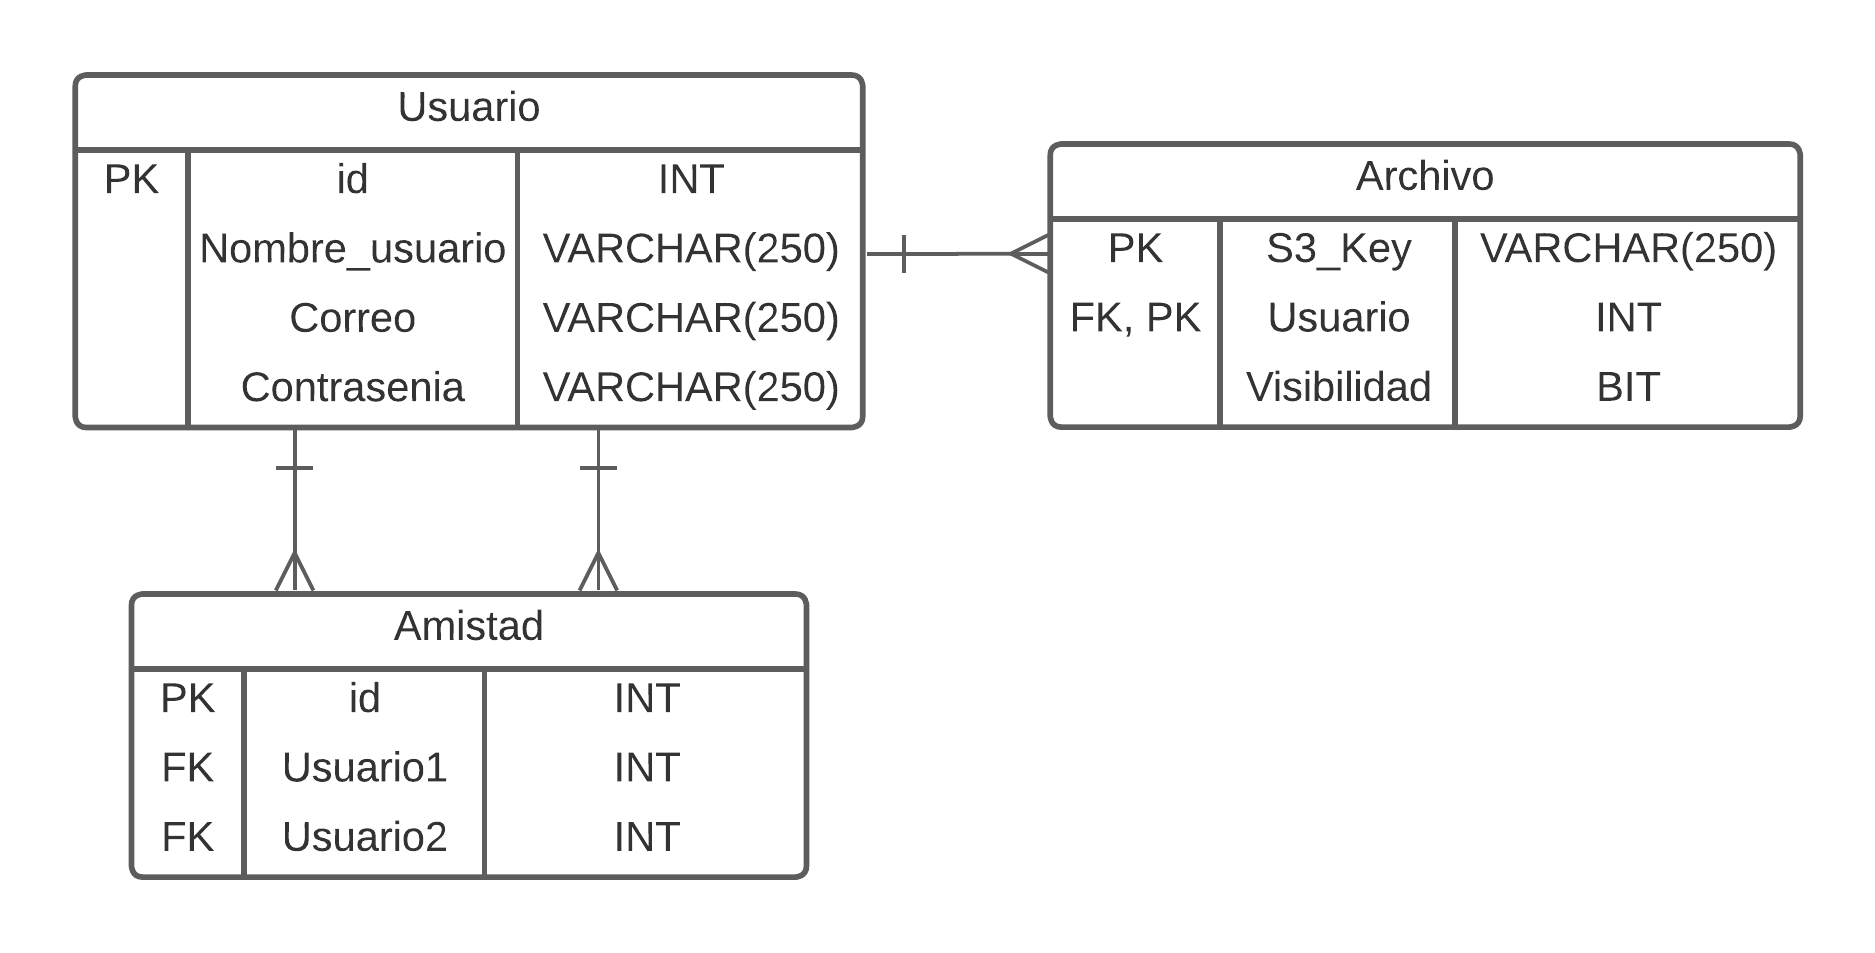
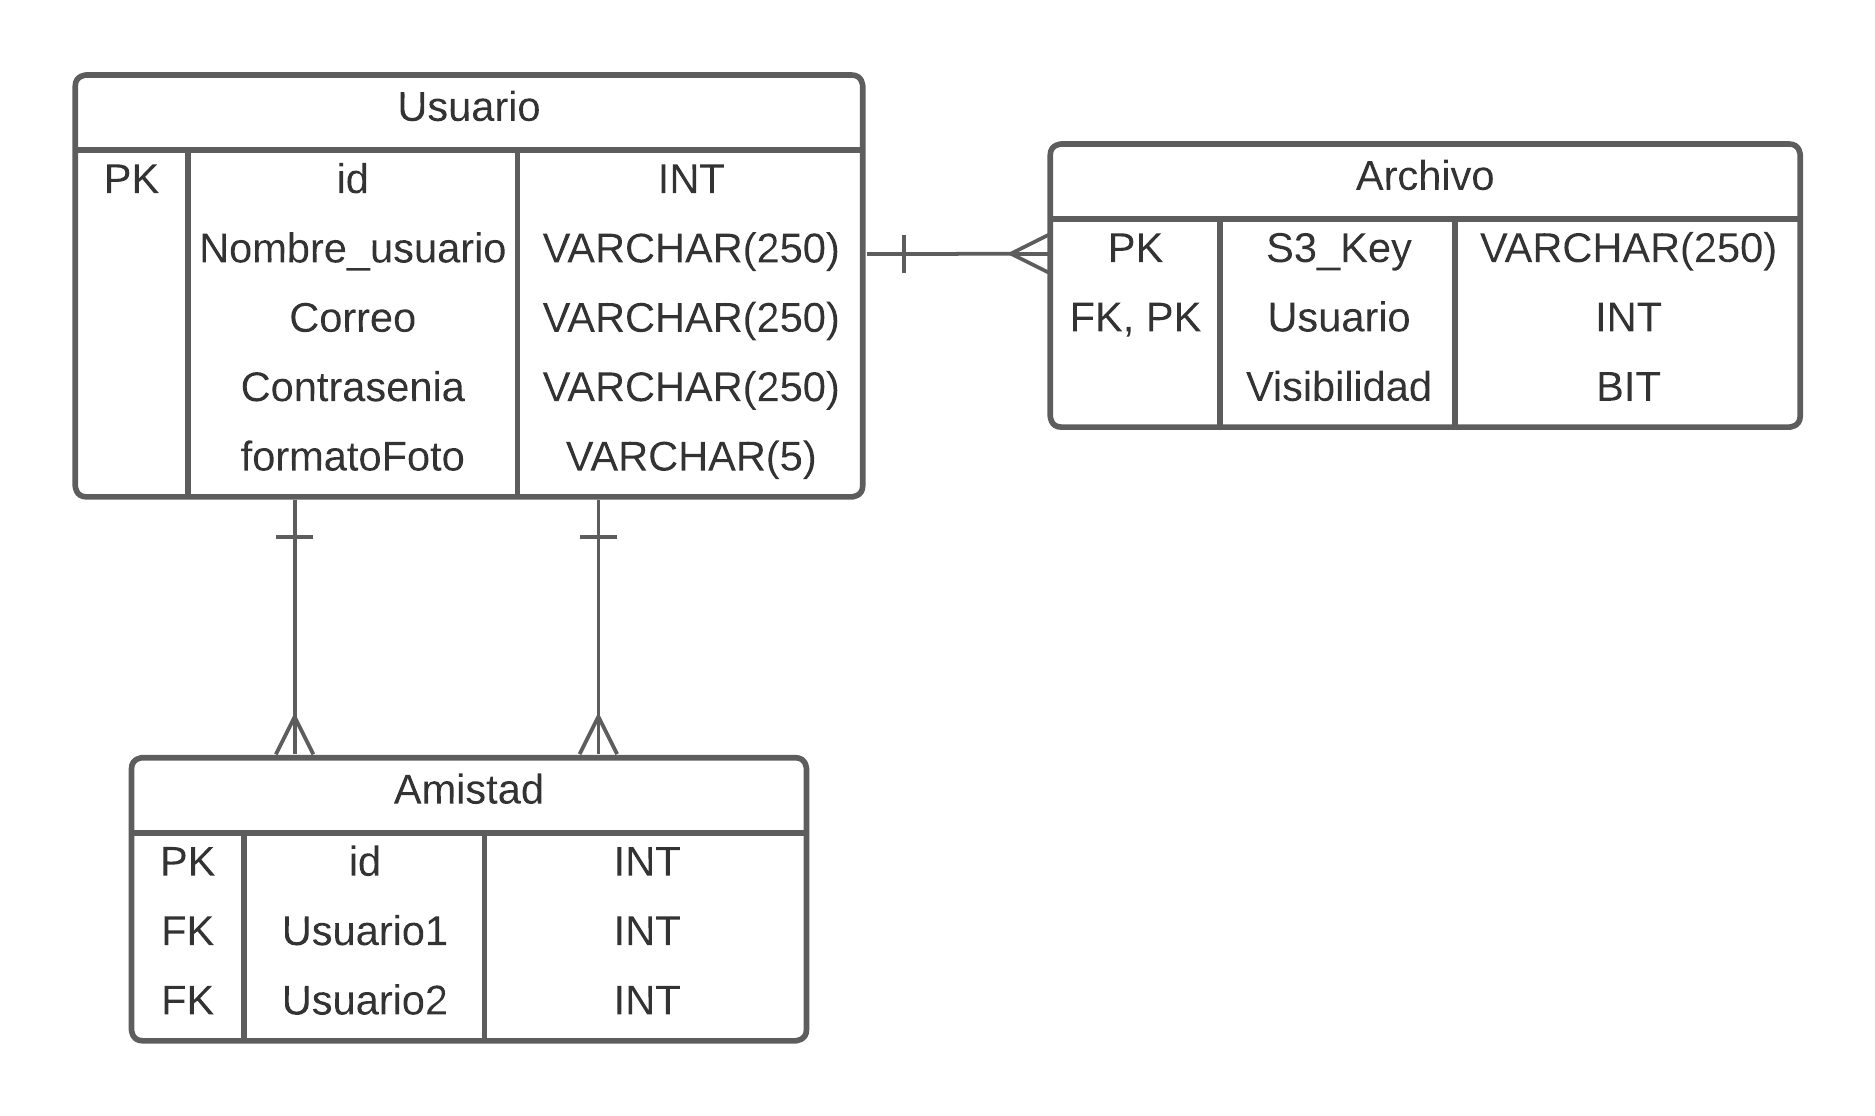
fotos de perfil

Changed region(s): [[0.0309, 0.0609, 0.9589, 0.4869], [0.0619, 0.5782, 0.4331, 0.9433]]

diff --git a/backend/api_node/api.js b/backend/api_node/api.js
@@ -7,6 +7,8 @@ require('dotenv').config({ path: '../.env' });
 
 const cors = require('cors');
 const encriptacion = require("./encriptacion");
+const { uploadToBucket, removeFromBucket } = require('./helpers/s3');
+
 
 var corsOptions = { origin: true, optionSuccessStatus: 200 };
 app.use(cors(corsOptions));
@@ -37,8 +39,10 @@ app.post('/registrar', function (req, res) {
         var usuario = req.body.usuario;
         var correo = req.body.correo;
         var contrasenia = encriptacion.encriptar(req.body.contrasenia);
+        const { foto } = req.files;
+        var extensionFoto = foto.name.split(".")[1];
 
-        var query = "CALL Registrar('" + usuario + "', '" + correo + "','" + contrasenia + "');";
+        var query = "CALL Registrar('" + usuario + "','" + correo + "','" + contrasenia + "','" + extensionFoto + "');";
         console.log(query)
         conexion.query(query, async function (err, result) {
                 if (err) {
@@ -46,7 +50,11 @@ app.post('/registrar', function (req, res) {
                 } else {
                         var resultado = result[0][0];
                         console.log(resultado);
-                        res.status(resultado.codigo).json(resultado)
+
+                        // guardar la foto de perfil
+                        const subirFoto = await uploadToBucket('fotos', foto, resultado.id);
+
+                        res.status(resultado.codigo).json(resultado);
                 }
         });
 })
